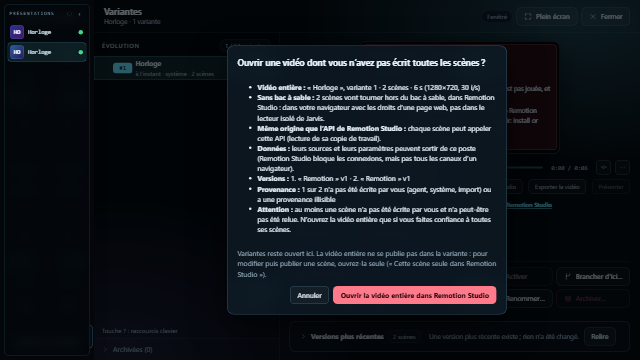
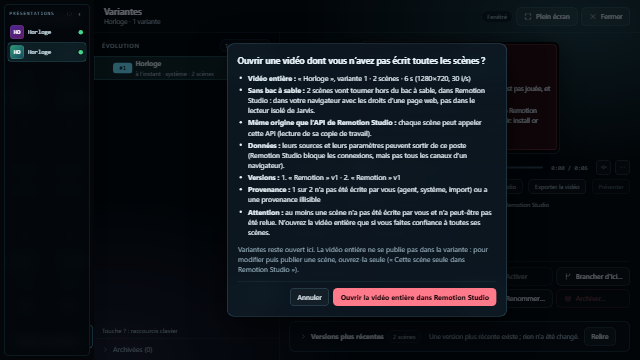
S8: polish - evidence: variants-master-summary.json tested_head 9b0e7185 (the code commit) with a note; re-shot ready line at 800x600 / 1280x720 / 1920x1080, confirm and open 1280x720, new 12-scene confirmation at 800x600 and 1280x720 (half scale), door summary with tested_head a9aa1ccd and the scen

diff --git a/tasks/jarvis-remotion-master-project-studio-export/LOG.md b/tasks/jarvis-remotion-master-project-studio-export/LOG.md
@@ -23,3 +23,4 @@ Record durable execution facts only: Slice dispatch, relevant commit(s), evidenc
 - Agent 0: baseline at `d101d887` recorded (`slices/00-project-manager/baseline.md`): 21 837 passed, 22 deterministic failures = 16 inherited + 6 in `test_presentation_studio_explorer_player_js.py` (main merge loss, Issue 03, Human decision), 1 load flake. Slice 06 rework `dc79e8c9` reviewed by agent 0 and APPROVED; branch `-s06` merged `--no-ff` into the task branch (conflicts in the contract doc, its docs test, `test_remotion_studio_rework` allowlist and this LOG: both sides kept). Post-merge: master docs 14, planner 48, files 15, render master 22 / service 58 / domain 47 / docs 13, Studio master 48 / routes 5 / studio 44 / rework 43 / docs 10, import docs 7 — all green.
 - Slice 07 (Work Agent, 2026-10-13, `8c7c6c4a` + evidence commit): agent `master` block (projection of `MasterProjectReader.live_plan`, `remotion_master_sentences`) in `presentation_inspect` variant, `presentation_source` write/preview, draft assemble/finalize; `remotion_export` `settings.scope` (`master` = whole video, mp4, no `scene_id`; result `video: whole|scene`; incompatible = § 3 sentence + scene offer, nothing written; scene body unchanged); native bundles default 1920x1080@30, `MASTER_HINT` (one spec, scene-named `public/` files, no `getInputProps`) and guard `require`/`\u` note in guide + author playbook; brain prompt routes « la vidéo » to scope master. Budgets unchanged (presentation 20 896/21 000, remotion 5 335/5 400, declared 113 686/113 700). Repin → new key → next master export renders the new pin proven on the real service stack. Real trace `t1` (claude-sonnet-5-5, USD 0.95): 9/9 steps pass, 2 whole-video MP4 (1920x1080 h264 30 fps 450 frames, keys `mpk_337e…` → `mpk_33ed…`, scene 2 changed only), incompatible refusal said with its sentence, no Studio, no mislabel; findings F1 (inherited `Frame` guard refusal, 1 retry), F2 (one unneeded status read). Not done: `remotion_studio` master wording (§ 14) left to Slice 08. §12 Level 3.
 - Slice 08 (Work Agent, 2026-10-13): Variants « Remotion Studio » opens the whole variant (master body + `acknowledge_unsandboxed_project`, confirmation naming presentation/variant/« N scènes vont tourner hors du bac à sable », reinforced warning, stale 409 re-asks with the new count, unpublished edits set aside only after the dialog says so) when the live readiness (read once per variant revision) is ready; secondary « Cette scène seule dans Remotion Studio » on the master line; incompatible/unreadable keep the scene door and say the § 3 sentence (`MASTER_REASONS`, parity with Python); publish hidden for a master workspace; new `control_center_presentation_studio_explorer_export.js` « Exporter la vidéo » (`scope: master`, progress/cancel/Artefact link, restore of a running master job); Board Artifacts MP4 adds `scope: master` only when `render/master` says ready; MCP `remotion_studio` wording; strip no longer crushed (`flex:none`). Tests: `test_variants_master_entrypoints_js.py` (18), `test_variants_master_entrypoints_browser.py` (5 + real opt-in: real Studio on the master from the page ~67 s cold, whole-video MP4 90 frames verified in ~23 s). Docs: master § 13 Level 3, presentation-studio *Whole video from Variants*, remotion-studio, remotion-render, OPERATIONS.
+- Slice 08 polish (Work Agent, 2026-10-13): UI QA findings fixed in a9aa1ccd — « Cette scène seule dans Remotion Studio » quiet (muted ink 8.71:1, weight 400, accent + underline on hover/focus only; the primary keeps its border); scene and whole-video confirmations pin heading + action row, body scrolls (12 scenes at 800x600: actions and focused « Annuler » in view, real Chrome); « 1 scène » (Variants export, Board, voice); incompatible line « <§ 3 sentence> « Remotion Studio » ouvre donc la scène à l’écran. », export refusal « <§ 3 sentence> Exportez plutôt les scènes une à une… » (no « indisponible » twice); § 3 sentences switched to typographic apostrophes (Python, JS mirror, § 3 table; « » kept with plain spaces: the repo has no U+00A0/U+202F convention, 0 of 3148 guillemets); export refusals mapped to French (`describeExportError`: no engine, `live_ref_not_authorised`, § 3, unknown) with the code in small print, « Réessayer » only for transient failures; master line `role=status`/`aria-live=polite`, scene door outside it; agent 0 decision applied: Board export `scope: master` only when ready AND ≥ 2 scenes, single-scene snapshot keeps the scene body byte for byte (§ 13). Evidence: `variants-master-summary.json` tested_head 9b0e7185 + note; re-shot ready line ×3 viewports, confirm/open 1280x720, new confirm12 800x600/1280x720; door summary tested_head a9aa1ccd (948 KB total). Tests: entrypoints_js 22, entrypoints_browser 7+1 skip, remotion_studio_js 15, remotion_studio_browser 7+1 skip, workspace_manager_js 25, workspace_presentations_js 23, master_agent 29, master_project_docs 14, presentation_studio_docs 21, remotion_studio_docs 5, render_docs 13, remotion_mcp_tools 40, control_center_remotion_studio 26, variants_controls_browser 8+2 skip — all green.
